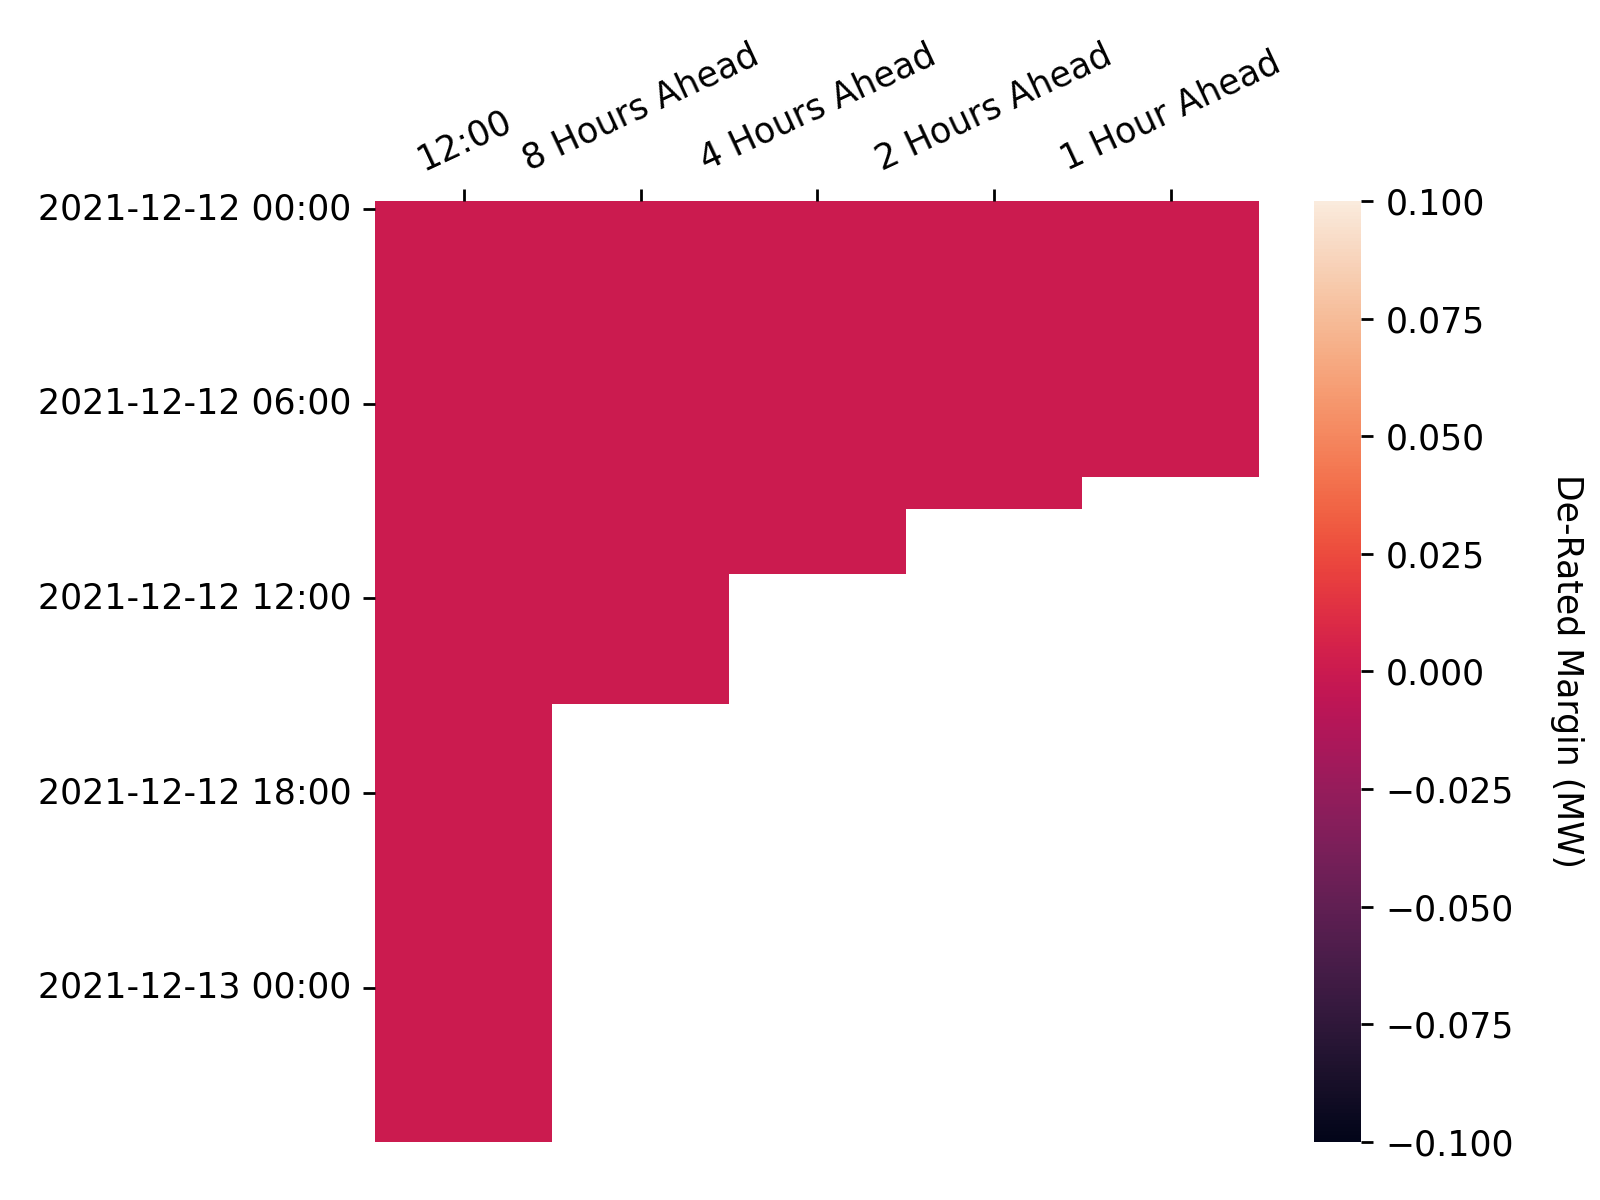
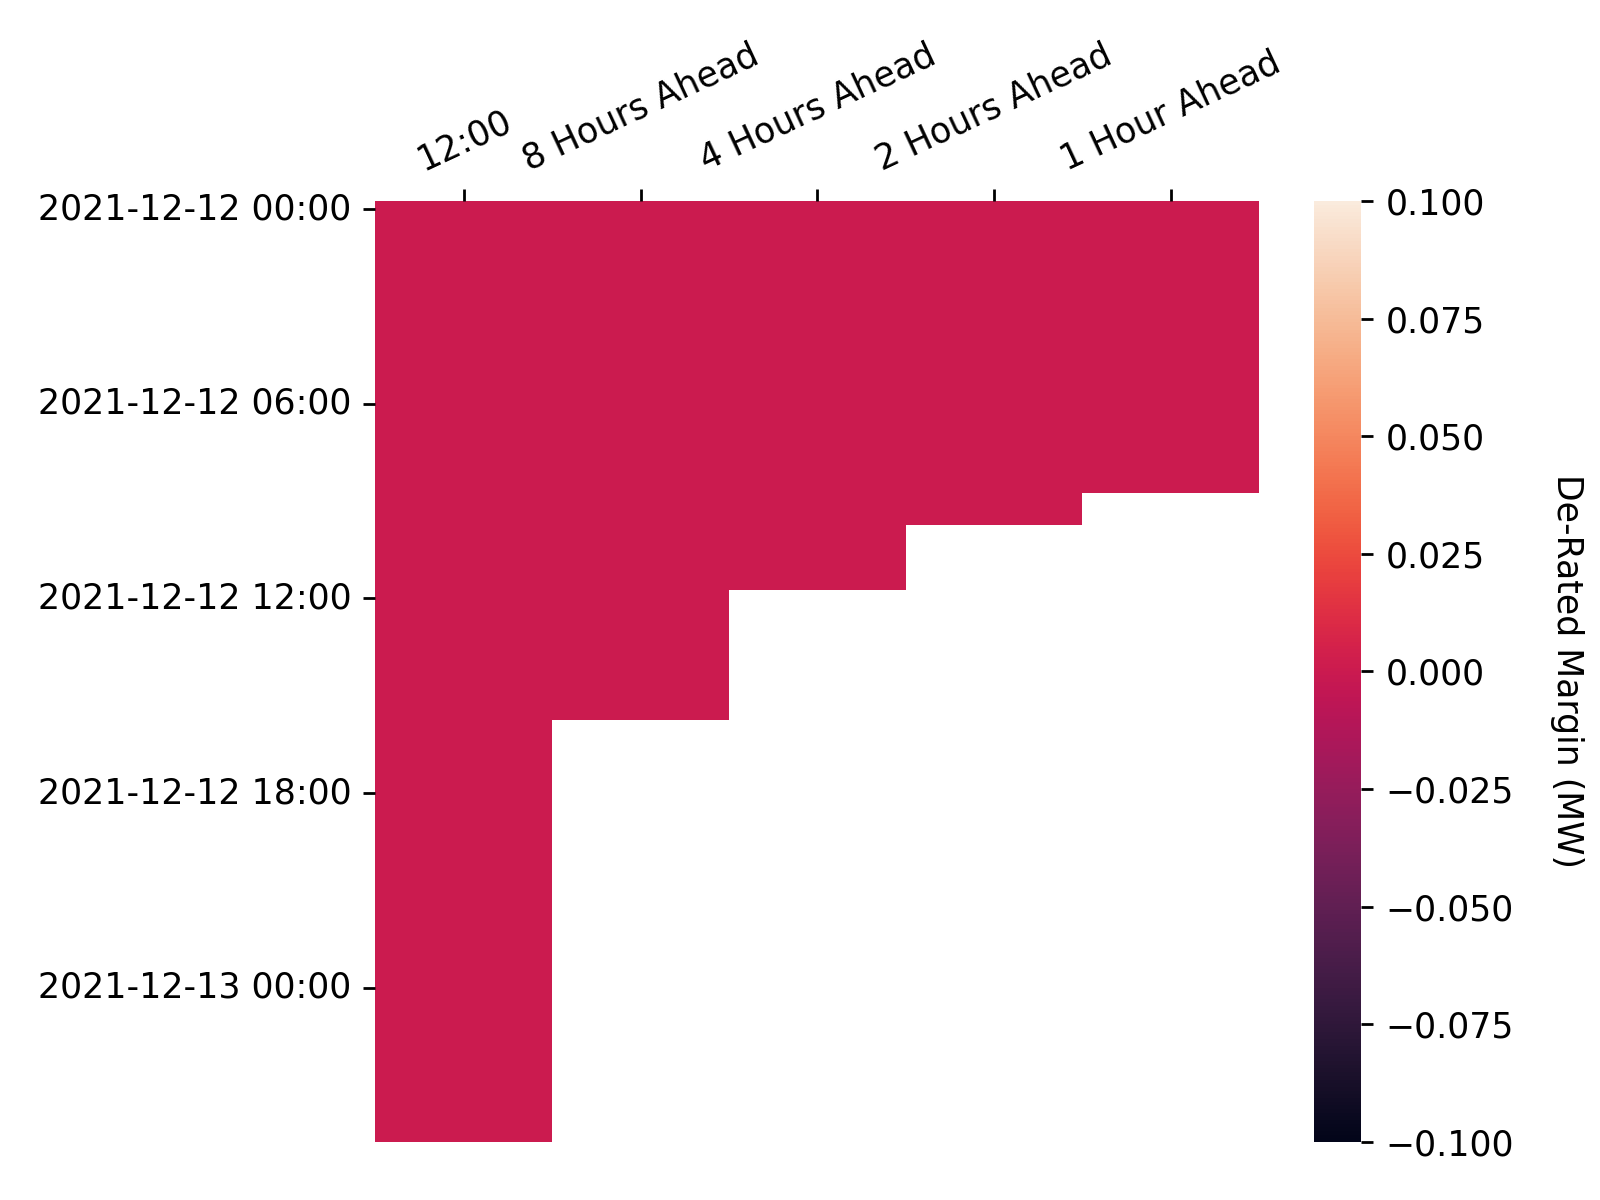
Apply automatic changes

Changed region(s): [[0.5625, 0.37, 0.7812, 0.4625], [0.4375, 0.4625, 0.5625, 0.4933], [0.3438, 0.5858, 0.4688, 0.6167]]

diff --git a/docs/js/map.js b/docs/js/map.js
@@ -144,7 +144,7 @@ document.addEventListener("DOMContentLoaded", function() {
                 follow: 1
             });
             mymap.addControl(sliderControl);
-            sliderControl.startSlider(334);
+            sliderControl.startSlider(335);
         });
     });
 });

diff --git a/docs/visualisations.md b/docs/visualisations.md
@@ -60,7 +60,7 @@ In each settlement period the system operator publishes the de-rated margin fore
 * At 1200 hours on each calendar day for all Settlement Periods for which Gate Closure has not yet passed and which occur within the current Operational Day or the following Operational Day; and
 * At eight, four, two and one hour(s) prior to the beginning of the Settlement Period to which the De-Rated Margin Forecast relates.
 
-These figures will be updated on an hourly basis, the last update was at: 2021-12-12 07:15
+These figures will be updated on an hourly basis, the last update was at: 2021-12-12 07:35
 
 <br>
 
@@ -83,7 +83,7 @@ The following heatmap shows how the more recent de-rated margin forecasts deviat
 
 ### Power Output Map
 
-Last Updated: 2021-12-12 07:15
+Last Updated: 2021-12-12 07:35
 
 This map shows the power output of individual plants connected to the transmission grid as stated in their most recent Physical Notifications. This data can be retrieved through the *PHYBMDATA* BMRS stream, the out-turn data can be viewed one week later through the *B1610* stream. The scrollbar at the top of the map can be used to view how the generation sources have changed their output over the last week, the layer control can be used to toggle on/off the transmission network, and the plants themselves can be clicked to reveal additional information. The plant location data used in this map has been taking from a sister project, [the Power Station Dictionary](https://osuked.github.io/Power-Station-Dictionary/), which aims to link between data about individual power plants.
 
